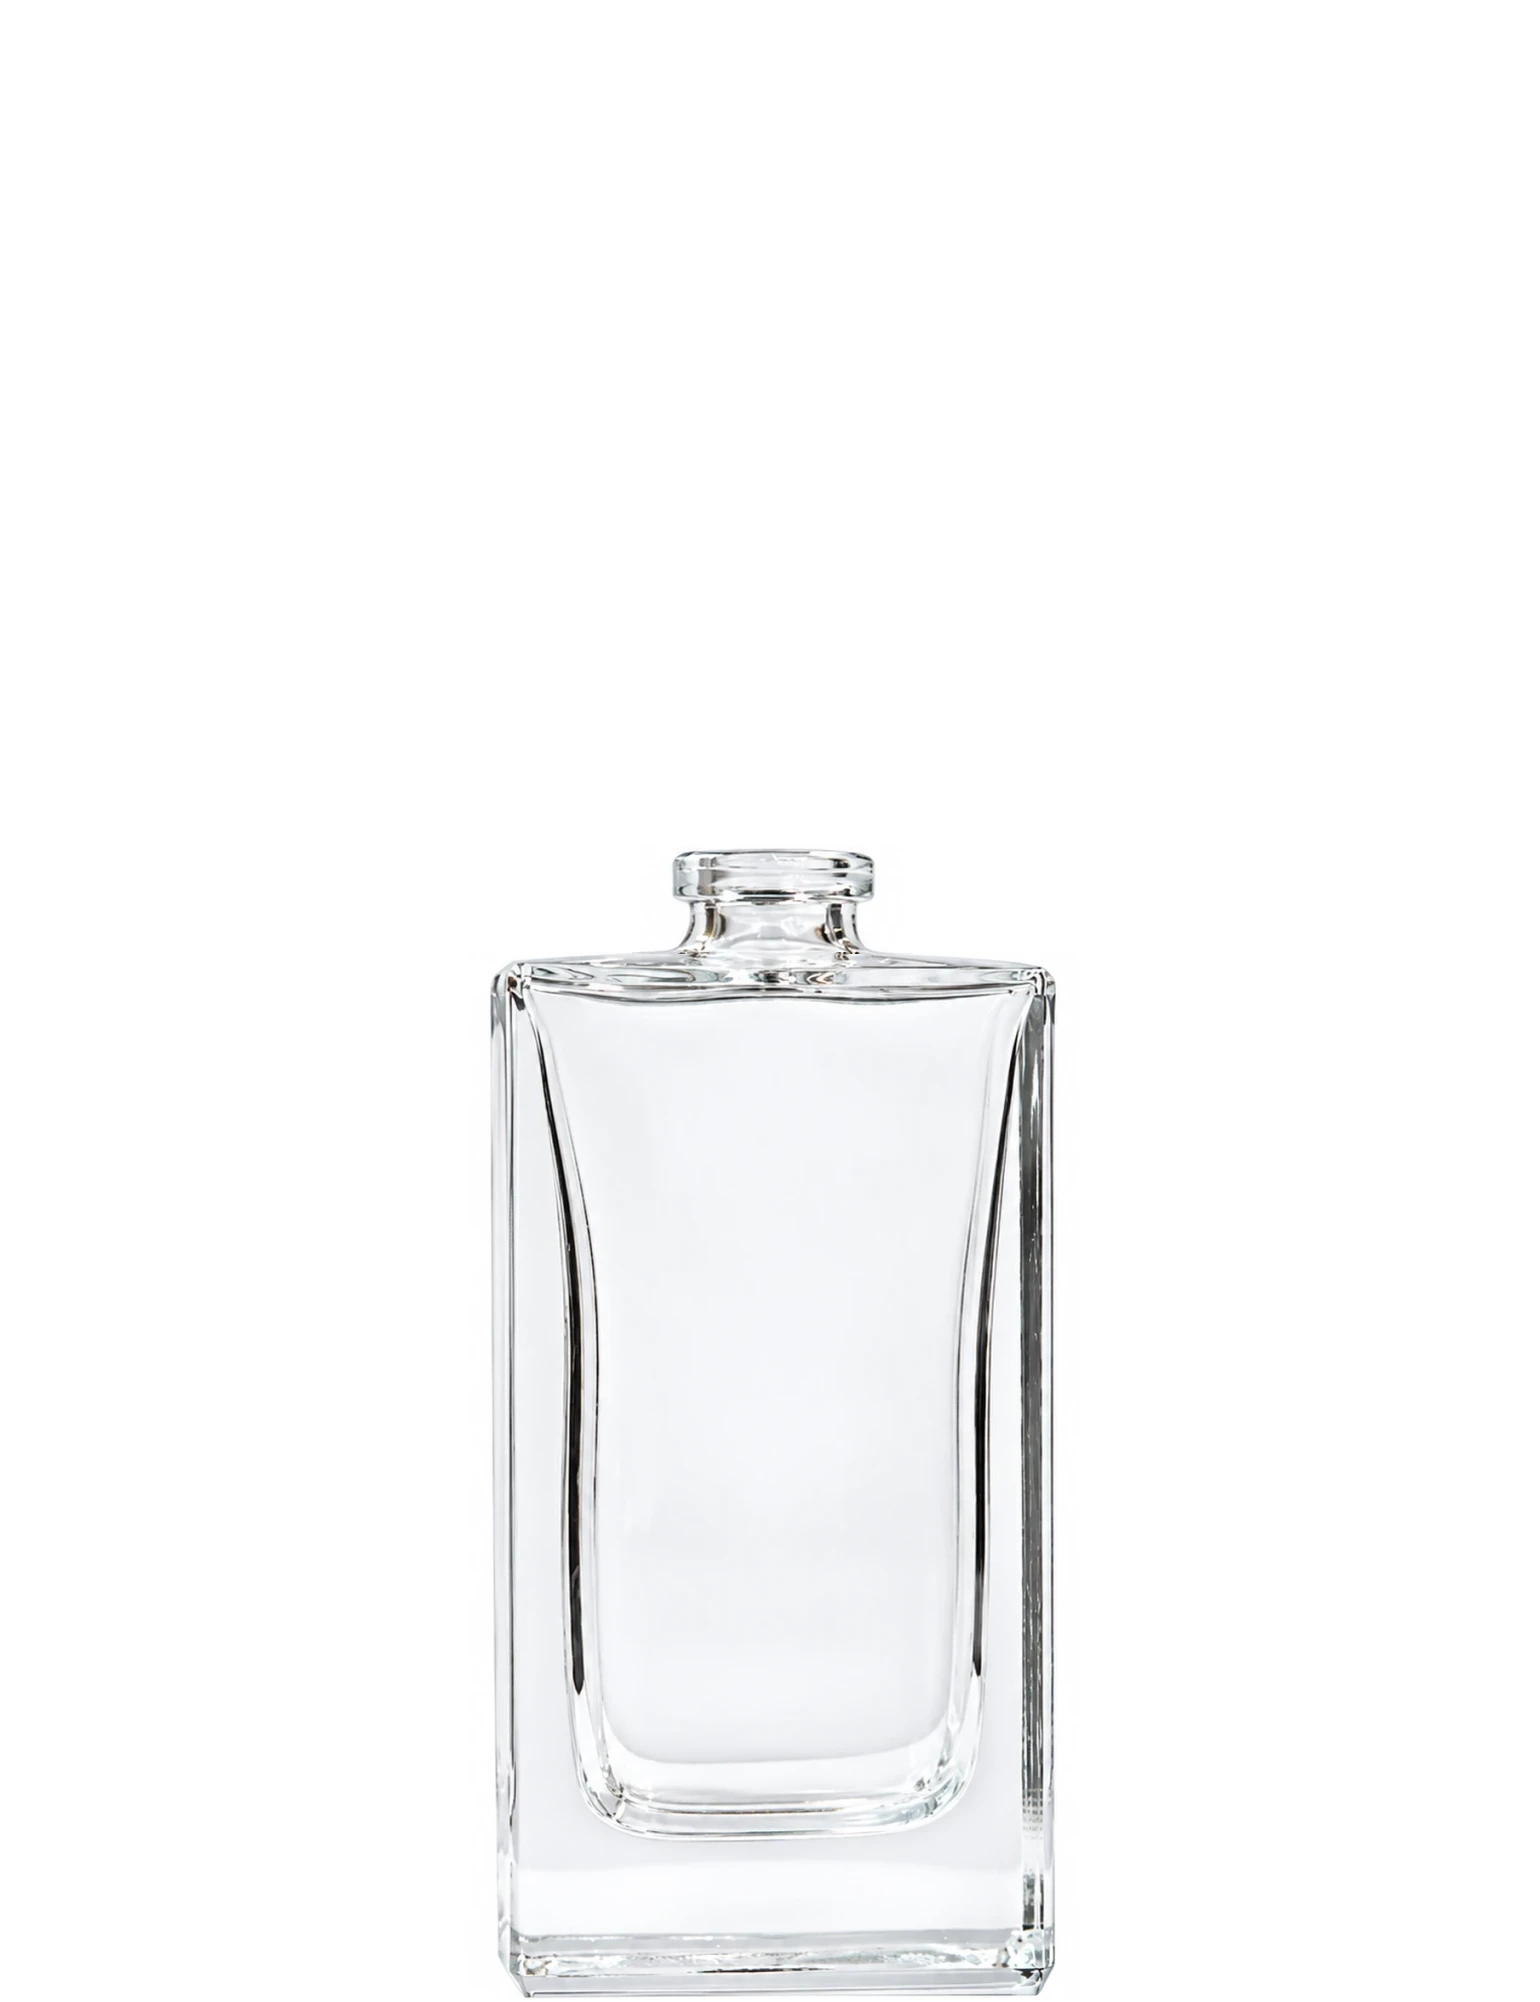
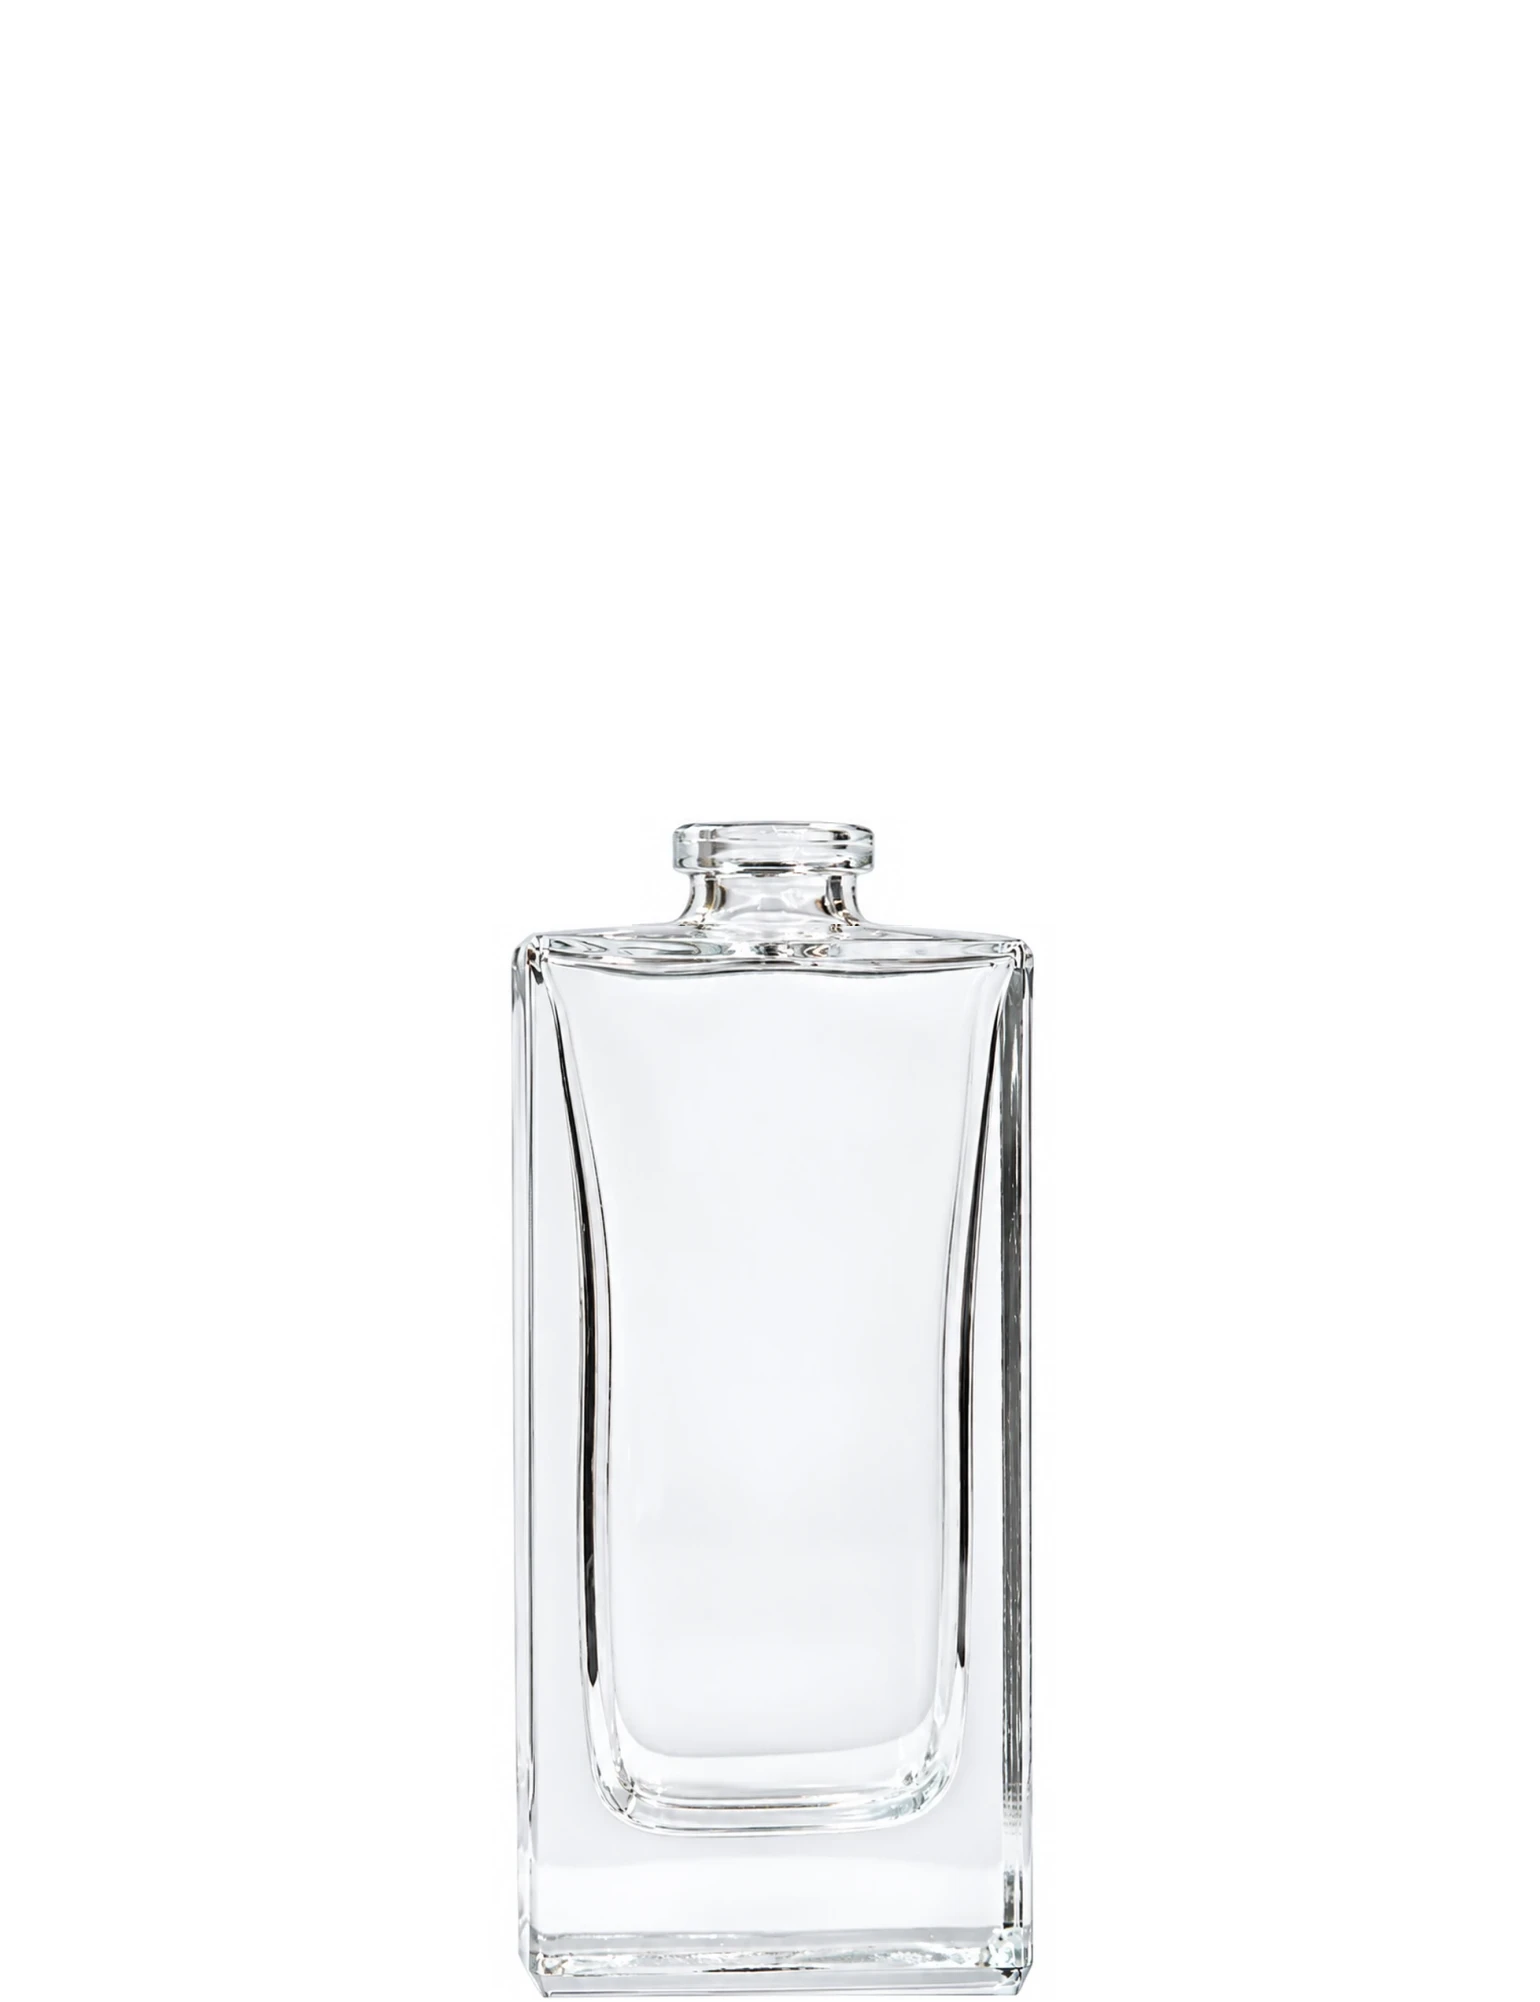
Noble Line 30 ml corrected measurements
Claude-Session: https://claude.ai/code/session_01NPF7L64H35ViacWxxYikNr

Changed region(s): [[0.3117, 0.4026, 0.6857, 1.0], [0.4364, 0.96, 0.5299, 0.991]]

diff --git a/konfig/seite-flakon-konfigurator.html b/konfig/seite-flakon-konfigurator.html
@@ -180,7 +180,7 @@ var M={
     muster:{id:58901208859007,p:2.65},t:[{min:1,id:58901208891775,p:67.20},{min:2,id:58901208924543,p:62.40},{min:10,id:58901208957311,p:55.20},{min:20,id:58901208990079,p:48.00}],
     plain:null}}},
  nbl:{n:'Noble Line',mode:'full',showPrem:0,sh:702,def:{spr:'Gold',cap:'Polo Weiss-Gold'},
-  L:{base_tube:{f:'nbl50-base-tube.webp'},base_notube:{f:'nbl50-base-leer.webp'},
+  L:{base_tube:{f:'nbl50-base-tube.webp'},base_notube:{f:'nbl50-base-leer.webp'},base_tube_30:{f:'nbl30-base-tube.webp'},base_notube_30:{f:'nbl30-base-leer.webp'},
    spr_Silber:{f:'spr-fea15-silber-b.webp',x:[619,351]},spr_Gold:{f:'spr-fea15-gold-b.webp',x:[619,338]},spr_Schwarz:{f:'spr-fea15-schwarz-b.webp',x:[619,298]},
    'cap_Zylinder Weiss-Gold':{f:'kappe-zylinder-weiss-gold-b.webp',x:[559,237]},'cap_Polo Weiss-Gold':{f:'kappe-polo-weiss-gold-b.webp',x:[563,292]},'cap_Polo Schwarz-Gold':{f:'kappe-polo-schwarz-gold-b.webp',x:[563,285]},
    'cap_Ribbed Gold':{f:'kappe-ribbed-gold-b.webp',x:[529,297]},'cap_Ribbed Schwarz':{f:'kappe-ribbed-schwarz-b.webp',x:[529,314]}},
@@ -190,6 +190,9 @@ var M={
    {k:'Ribbed Gold',n:'Ribbed · Gold',sw:'repeating-linear-gradient(#e7c66f 0 3px,#a8802f 3px 5px)',id:58901310603647,p:0.70},
    {k:'Ribbed Schwarz',n:'Ribbed · Schwarz',sw:'repeating-linear-gradient(#444 0 3px,#0b0b0b 3px 5px)',id:58901310636415,p:0.70}],
   sizes:{
+   '30':{n:'30 ml',dim:'82 × 40 × 28 mm',pcs:112,body:1,parts:1,sh:956,bsuf:'_30',sep:null,
+    muster:{id:58901365457279,p:2.10},t:[{min:1,id:58901365490047,p:95.20},{min:2,id:58901365522815,p:84.00},{min:10,id:58901365555583,p:67.20},{min:20,id:58901365588351,p:50.40}],
+    plain:null},
    '50':{n:'50 ml',dim:'100 × 47 × 30 mm',pcs:72,body:1,parts:1,sep:null,
     muster:{id:58901312110975,p:2.25},t:[{min:1,id:58901312143743,p:72.00},{min:2,id:58901312176511,p:64.80},{min:10,id:58901312209279,p:54.00},{min:20,id:58901312242047,p:43.20}],
     plain:null}}}};

diff --git a/konfig/b2050/build30.py b/konfig/b2050/build30.py
@@ -2,8 +2,8 @@ import cv2, numpy as np, json
 from PIL import Image
 PX=14.0; W,H=1540,2002; XC,YB=772.1,1996.4
 NECK=7.3708; SH50=YB-(100-NECK)*PX
-fx,fy=40/47,(82-NECK)/(100-NECK)
-SH=YB-(82-NECK)*PX
+fx,fy=37/47,(84-NECK)/(100-NECK)
+SH=YB-(84-NECK)*PX
 for n in ('leer','tube'):
     im=cv2.cvtColor(np.array(Image.open('b2050-base-'+n+'.webp').convert('RGB')),cv2.COLOR_RGB2BGR)
     c=np.full((H,W,3),255,np.uint8); y0=int(round(SH50))
@@ -17,7 +17,7 @@ for n in ('leer','tube'):
 a=np.array(Image.open('nbl30-base-tube.webp').convert('L'))<236
 for y in range(int(SH)-200,int(SH)+80):
     xs=np.where(a[y])[0]
-    if len(xs) and xs.max()-xs.min()>0.85*40*PX: edge=y;break
+    if len(xs) and xs.max()-xs.min()>0.85*37*PX: edge=y;break
 print('SH',SH,'edge',edge)
 m=json.load(open('meta.json'));ims=[]
 for b,hd in [('tube','kappe-polo-weiss-gold-b'),('tube','kappe-zylinder-weiss-gold-b'),('tube','spr-fea15-gold-b'),('leer',None)]:
